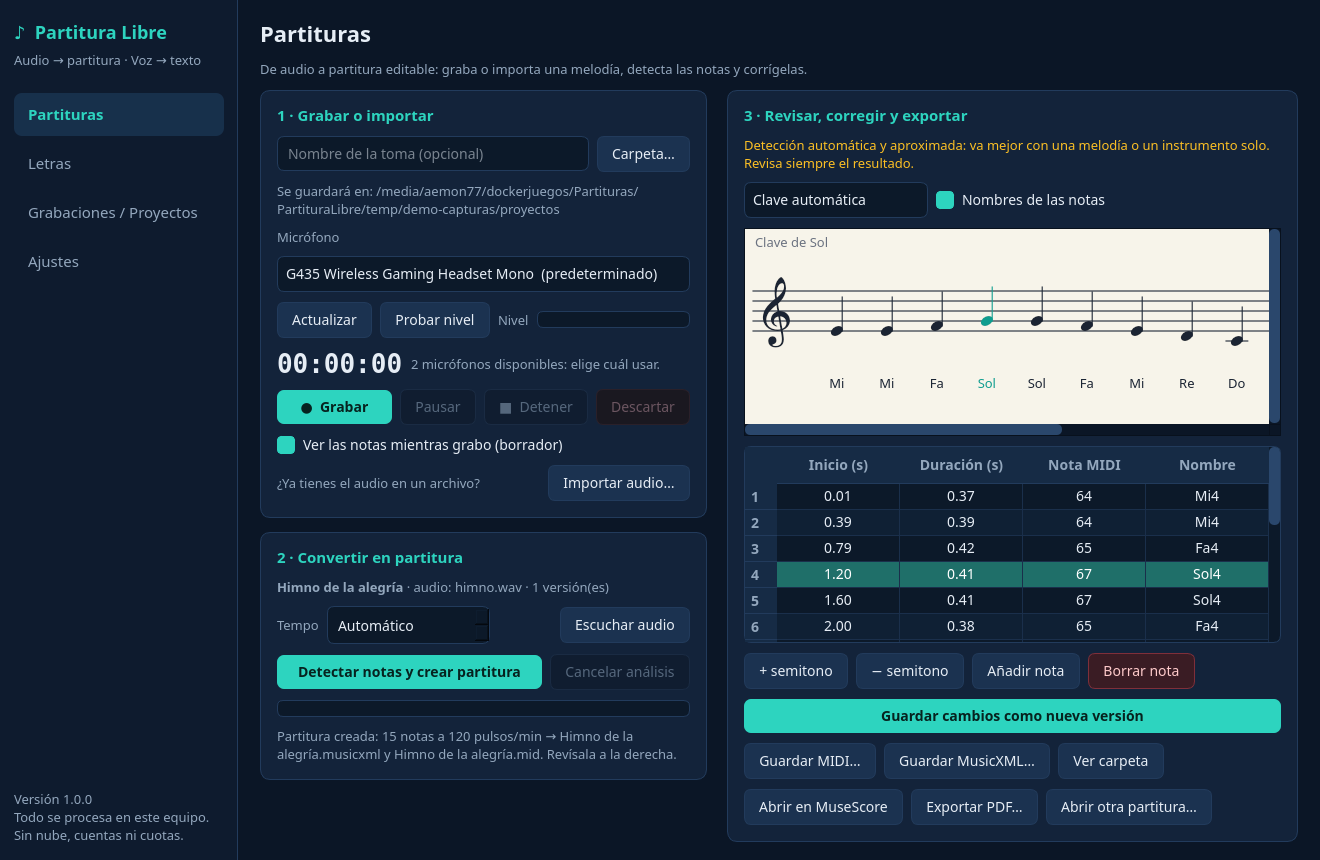
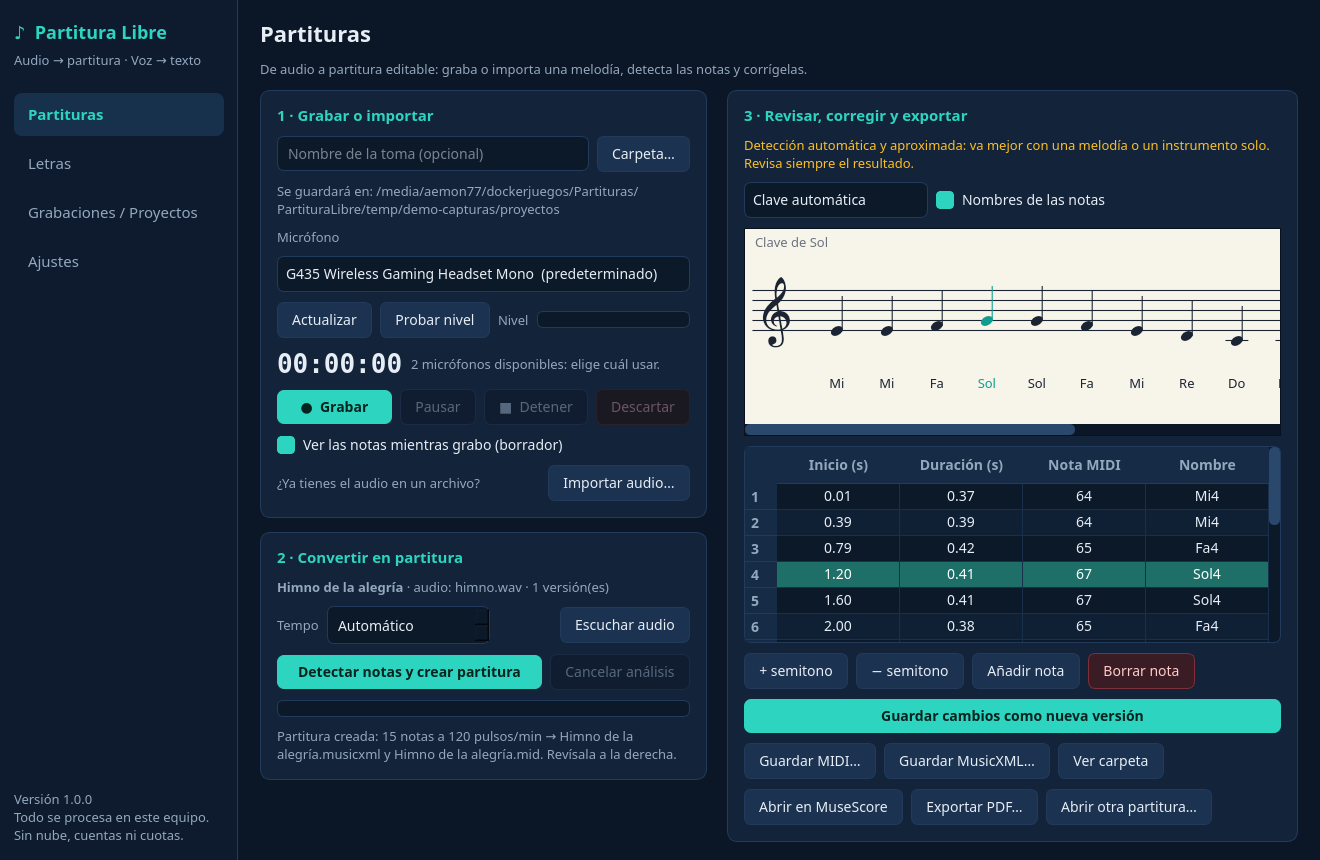
Pentagrama sin barra de desplazamiento vertical

Changed region(s): [[0.5591, 0.2721, 0.9939, 0.4837]]

diff --git a/app/partitura_libre/ui/pentagrama.py b/app/partitura_libre/ui/pentagrama.py
@@ -37,7 +37,7 @@ class Pentagrama(QWidget):
         super().__init__()
         self.notas, self.sel, self.bpm, self.clave, self.nombres = [], -1, 120, "sol", True
         self._cajas = []  # (rectángulo, índice de nota) para elegir con el ratón
-        self.setMinimumHeight(196)
+        self.setMinimumHeight(190)
 
     def poner(self, notas, sel=-1, bpm=120, clave="", nombres=True):
         self.notas, self.sel, self.bpm, self.nombres = notas, sel, bpm, nombres

diff --git a/app/partitura_libre/ui/partituras.py b/app/partitura_libre/ui/partituras.py
@@ -89,6 +89,7 @@ class PaginaPartituras(QWidget):
         rollo.setWidget(self.vista)
         rollo.setWidgetResizable(True)
         rollo.setFixedHeight(208)
+        rollo.setVerticalScrollBarPolicy(Qt.ScrollBarAlwaysOff)
         self.tabla = QTableWidget(0, 4)
         self.tabla.setHorizontalHeaderLabels(["Inicio (s)", "Duración (s)", "Nota MIDI", "Nombre"])
         self.tabla.horizontalHeader().setSectionResizeMode(QHeaderView.Stretch)
